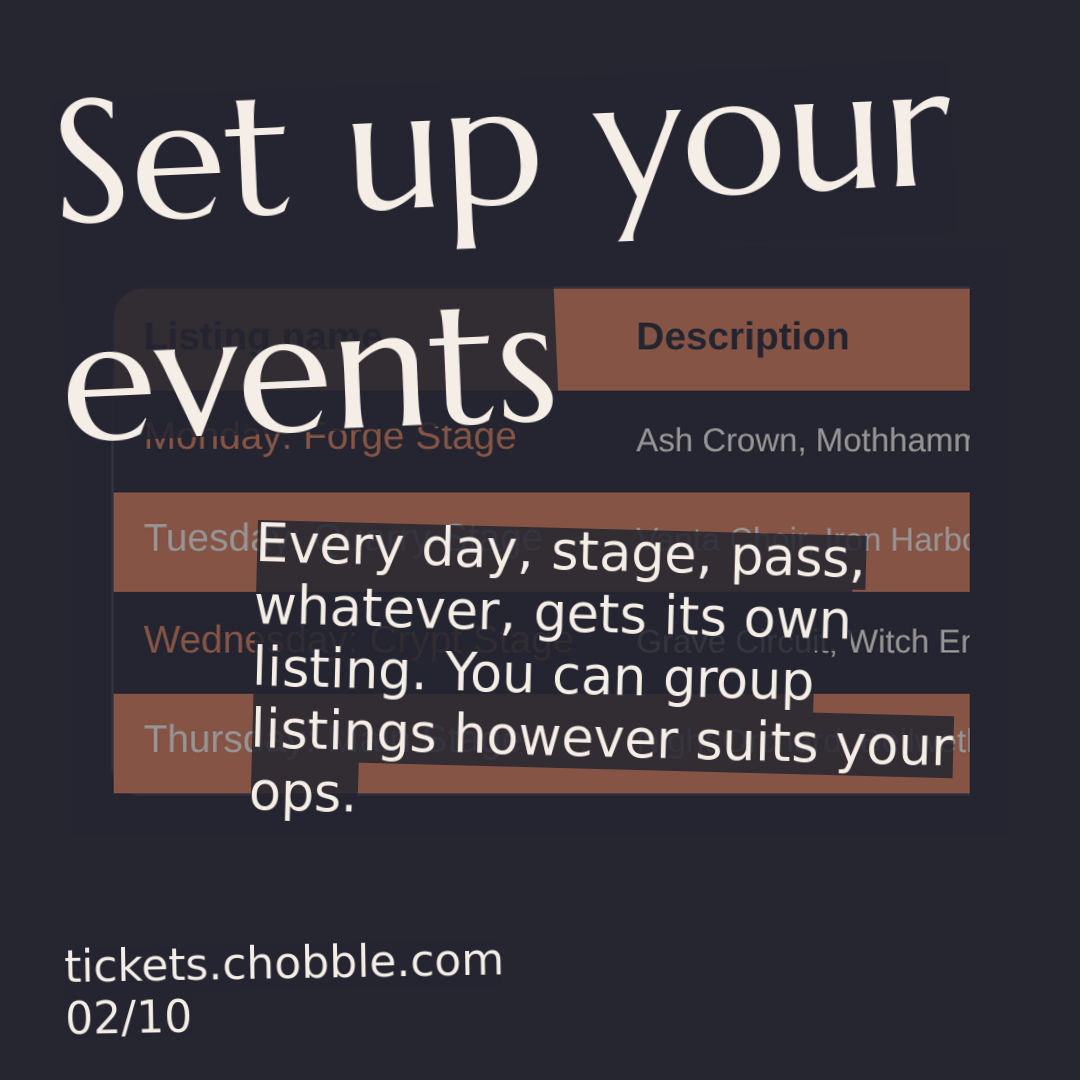
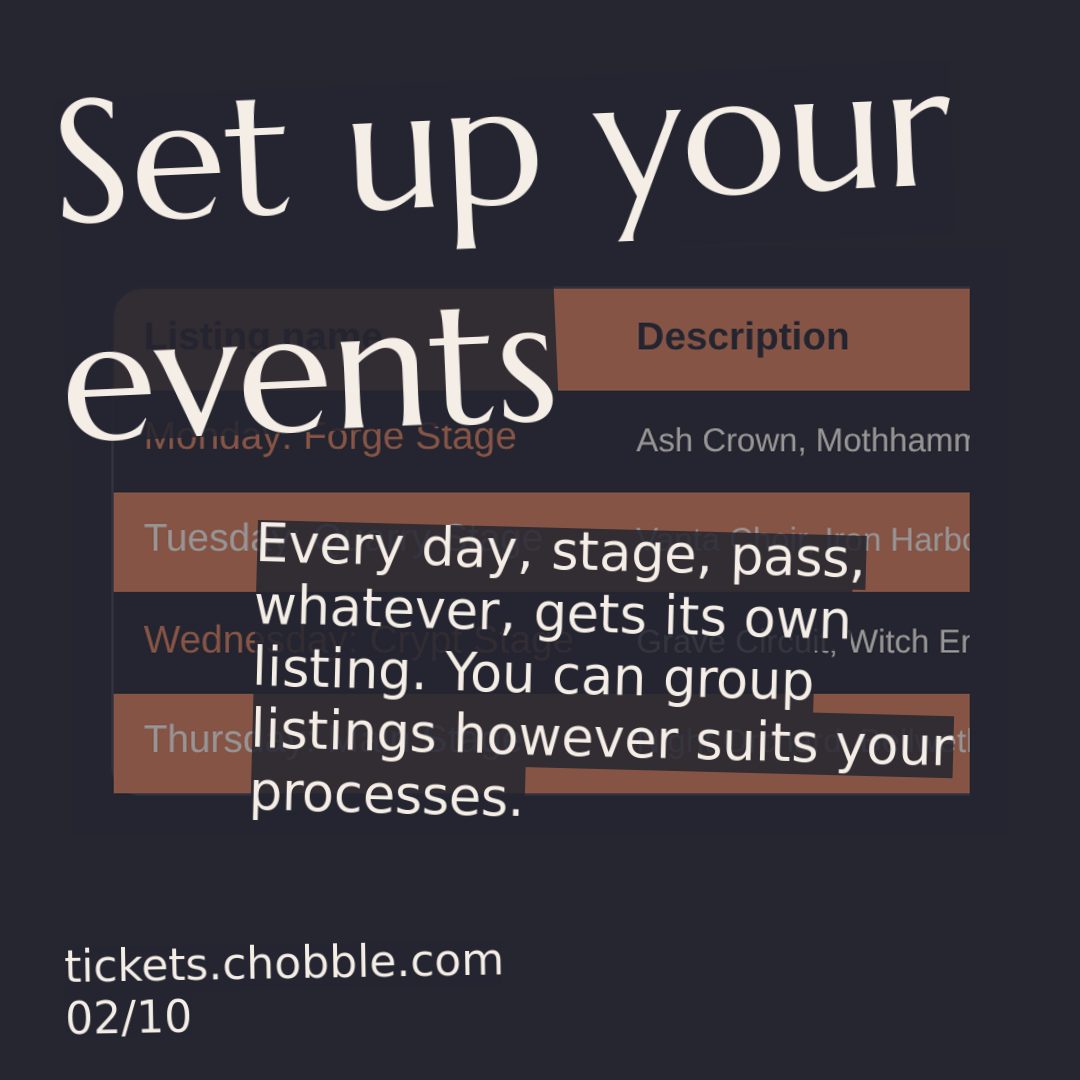
Better images

Changed region(s): [[0.2139, 0.7028, 0.4889, 0.7639]]

diff --git a/scripts/chobblefest-slides.js b/scripts/chobblefest-slides.js
@@ -7,7 +7,7 @@ export const CHOBBLEFEST_SLIDES = [
     source: "chobblefest-welcome",
   },
   {
-    body: "Every day, stage, pass, whatever, gets its own listing. You can group listings however suits your ops.",
+    body: "Every day, stage, pass, whatever, gets its own listing. You can group listings however suits your processes.",
     heading: "Set up your events",
     palette: ["#252630", "#f5eee6", "#d47a58", "#aaa2b6"],
     slug: "programme",
